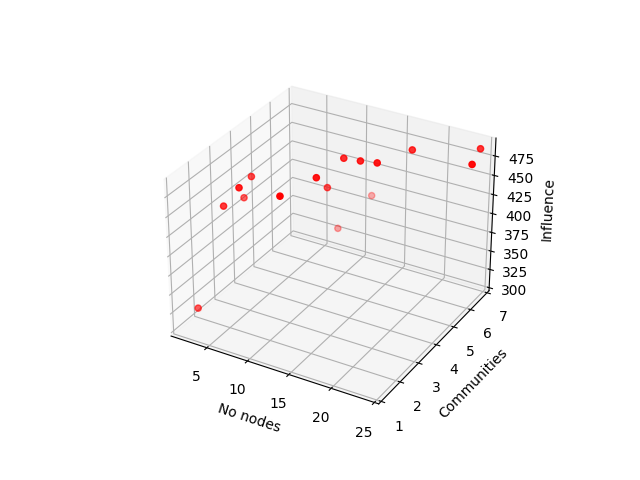
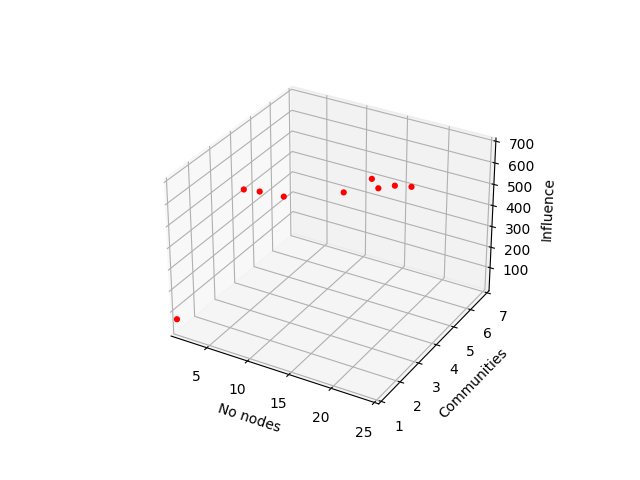
3d plot

Changed region(s): [[0.25, 0.1875, 0.8438, 0.6562], [0.25, 0.6562, 0.2812, 0.6875]]

diff --git a/src/ea/terminators.py b/src/ea/terminators.py
@@ -86,7 +86,7 @@ def no_improvement_termination(population, num_generations, num_evaluations, arg
     fig = plt.figure()
     ax = fig.add_subplot(111, projection='3d')
 
-    ax.scatter(two,three,one, color='red')
+    ax.scatter(two,three,one, color='red', alpha=1,linewidth=0)
     ax.set_xlabel("No nodes")
 
     ax.set_zlabel("Influence")
@@ -94,9 +94,10 @@ def no_improvement_termination(population, num_generations, num_evaluations, arg
     ax.set_ylabel("Communities")
 
     ax.set_ylim([1,len(args["communities"])])
-    #ax.set_zlim([1,2000])
+    #ax.set_zlim([1,550])
     ax.set_xlim([1,(args["max_seed_nodes"])])
     plt.savefig('PF/'+ str(num_generations)+'.png')
+    plt.show()
 
     if previous_best is None or previous_best < current_best:
         args['previous_best'] = current_best

diff --git a/graph_influence.py b/graph_influence.py
@@ -127,7 +127,7 @@ if __name__ == '__main__':
             '''
 
                     
-            no_simulations = 50
+            no_simulations = 25
             max_generations = 200
             #nodes' bound of seed sets
             #k=200
